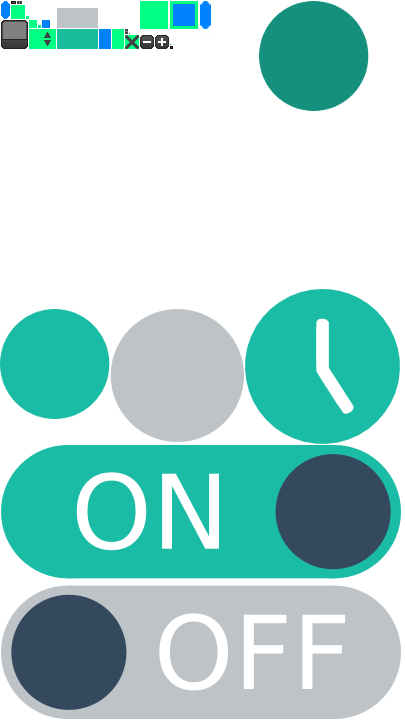
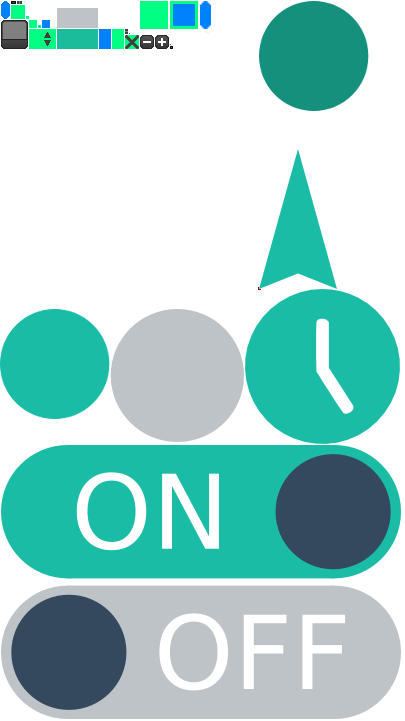
created an additional 2d overlay, indicating the direction of the next gate. not very performant jet but working (fucking math)...

Changed region(s): [[0.6222, 0.2136, 0.8296, 0.3967]]

diff --git a/core/src/de/fau/cs/mad/fly/features/game/GateIndicator.java b/core/src/de/fau/cs/mad/fly/features/game/GateIndicator.java
@@ -2,10 +2,15 @@ package de.fau.cs.mad.fly.features.game;
 
 import com.badlogic.gdx.Gdx;
 import com.badlogic.gdx.graphics.Camera;
+import com.badlogic.gdx.graphics.g2d.Batch;
+import com.badlogic.gdx.graphics.g2d.SpriteBatch;
+import com.badlogic.gdx.graphics.g2d.TextureRegion;
 import com.badlogic.gdx.graphics.g3d.Environment;
 import com.badlogic.gdx.graphics.g3d.ModelBatch;
 import com.badlogic.gdx.math.Vector3;
+import com.badlogic.gdx.scenes.scene2d.ui.Skin;
 
+import de.fau.cs.mad.fly.features.IFeatureDraw;
 import de.fau.cs.mad.fly.features.IFeatureInit;
 import de.fau.cs.mad.fly.features.IFeatureRender;
 import de.fau.cs.mad.fly.game.GameController;
@@ -20,10 +25,10 @@ import de.fau.cs.mad.fly.res.Level;
  * @author Lukas Hahmann
  * 
  */
-public class GateIndicator implements IFeatureInit, IFeatureRender {
+public class GateIndicator implements IFeatureInit, IFeatureDraw, IFeatureRender {
     
     private GameController gameController;
-    private ModelBatch batch;
+    private ModelBatch modelBatch;
     private Environment environment;
     private Vector3 targetPosition;
     private Vector3 vectorToTarget;
@@ -34,16 +39,62 @@ public class GateIndicator implements IFeatureInit, IFeatureRender {
     private Vector3 gatePositionRelativeToCamera;
     
     private GameObject arrowModel;
-    private Camera camera; 
+    private Camera camera;
+    
+    private TextureRegion arrow;
+    private Batch batch;
+    
+    private Level level;
+    
+    /**
+     * Radius of the circle, the arrows cover when indicating the next gate. It
+     * is limited by the reset-steering button, because it should not overlay
+     * this button.
+     */
+    private final int radius = 250;
+    /**
+     * Horizontal center of the screen. It defines the mid point of the circle
+     * the arrows cover.
+     */
+    private final float midX = Gdx.graphics.getWidth() / 2;
+    /**
+     * Vertical center of the screen. It defines the mid point of the circle the
+     * arrows cover.
+     */
+    private final float midY = Gdx.graphics.getHeight() / 2;
+    /**
+     * Horizontal starting position, where the arrow is placed when angle = 0°
+     */
+    private final float startPosX;
+    /**
+     * Vertical starting position, where the arrow is placed when angle = 0°
+     */
+    private final float startPosY = midY + radius;
+    
+    private final float arrowHeigth;
+    private final float arrowWidth;
+    
+    private final float originX;
+    private final float originY;
+    private float angle = 0;
+    
+    public GateIndicator(final Skin skin) {
+        arrow = skin.getRegion("arrow");
+        arrowWidth = arrow.getRegionWidth();
+        arrowHeigth = arrow.getRegionHeight();
+        originX = arrow.getRegionWidth() / 2;
+        originY = -radius;
+        startPosX = midX - arrow.getRegionWidth() / 2;
+        this.batch = new SpriteBatch();
+    }
     
     @Override
     public void init(final GameController gameController) {
         this.gameController = gameController;
         Assets.load(Assets.arrow);
-        long millis = System.currentTimeMillis();
         arrowModel = new GameObject(Assets.manager.get(Assets.arrow));
-        Gdx.app.log("GateIndicator", String.valueOf(System.currentTimeMillis()-millis));
-        batch = gameController.getBatch();
+        this.level = gameController.getLevel();
+        modelBatch = gameController.getBatch();
         environment = gameController.getLevel().getEnvironment();
         camera = gameController.getCamera();
         
@@ -60,7 +111,7 @@ public class GateIndicator implements IFeatureInit, IFeatureRender {
         int[] nextLevels = gameController.getLevel().currentGates();
         int len = nextLevels.length;
         Level.Gate gate;
-        for (int i = 0; i<len; i++) {
+        for (int i = 0; i < len; i++) {
             gate = gameController.getLevel().getGateById(nextLevels[i]);
             targetPosition = gate.goal.getPosition();
             cameraDirection.set(camera.direction);
@@ -84,7 +135,60 @@ public class GateIndicator implements IFeatureInit, IFeatureRender {
             float[] values = { up.x, up.y, up.z, 0f, cross.x, cross.y, cross.z, 0f, vectorToTarget.x, vectorToTarget.y, vectorToTarget.z, 0f, 0f, 0f, 0f, 1f };
             
             arrowModel.transform.set(values).trn(gatePositionRelativeToCamera);
-            batch.render(arrowModel, environment);
+            modelBatch.render(arrowModel, environment);
         }
+    }
+    
+    @Override
+    public void draw(float delta) {
+        int[] gates = level.currentGates();
+        Vector3 midPoint = new Vector3();
+        Vector3 tmp = new Vector3();
+        Vector3 projectedPoint;
+        Vector3 vectorToProjectedPoint;
+        up.set(camera.up);
+        cameraDirection.set(camera.direction);
+        // vector orthogonal to up and cameraDirection
+        cross.set(up).crs(cameraDirection).nor();
+        GameObject gate;
+        batch.begin();
+        for (int i = 0; i < gates.length; i++) {
+            gate = level.getGateById(gates[i]).goal;
+            if (!gate.isVisible(gameController.getCamera())) {
+                projectedPoint = projectPointToPlane(gate.getPosition(), cross, up);
+                tmp.set(cameraDirection).nor().scl(camera.near);
+                midPoint.set(camera.position).add(tmp);
+                vectorToProjectedPoint = projectedPoint.sub(camera.position);
+                angle = angleBetweenTwoVectors(up, vectorToProjectedPoint);
+                if (vectorToProjectedPoint.hasOppositeDirection(cross)) {
+                    angle = 360 - angle;
+                }
+                batch.draw(arrow, startPosX, startPosY, originX, originY, arrowWidth, arrowHeigth, 1f, 1f, angle);
+            }
+        }
+        batch.end();
+    }
+    
+    /**
+     * Calculates the result of the orthogonal projection of the point to the
+     * plane, which is defined by planeX and planeY
+     */
+    public static Vector3 projectPointToPlane(Vector3 point, Vector3 planeX, Vector3 planeY) {
+        Vector3 x = new Vector3();
+        Vector3 y = new Vector3();
+        x.set(planeX);
+        y.set(planeY);
+        Vector3 first = new Vector3();
+        Vector3 second = new Vector3();
+        
+        y.scl(first.set(point).dot(y) / y.len2());
+        x.scl(second.set(point).dot(x) / x.len2());
+        Vector3 result = new Vector3();
+        return result.set(y).add(x);
+    }
+    
+    public static float angleBetweenTwoVectors(Vector3 v1, Vector3 v2) {
+        Vector3 tmp = new Vector3();
+        return (float) (Math.acos(tmp.set(v1).dot(v2) / (v1.len() * v2.len())) * 180 / Math.PI);
     }
 }

diff --git a/core/test/src/de/fau/cs/mad/fly/tests/GateIndicatorTest.java b/core/test/src/de/fau/cs/mad/fly/tests/GateIndicatorTest.java
@@ -1,0 +1,84 @@
+package de.fau.cs.mad.fly.tests;
+
+import static org.junit.Assert.assertEquals;
+
+import org.junit.Test;
+
+import com.badlogic.gdx.math.Vector3;
+
+import de.fau.cs.mad.fly.features.game.GateIndicator;
+
+public class GateIndicatorTest {
+    
+    /**
+     * Tests the method
+     * {@link GateIndicator#pojectPointToPlane(Vector3, Vector3, Vector3)}. The
+     * test numbers are from https://de.wikipedia.org/wiki/Orthogonalprojektion
+     */
+    @Test
+    public void testProjectToPlane() {
+        Vector3 up = new Vector3(2, 1, 2);
+        Vector3 right = new Vector3(2, -2, -1);
+        Vector3 point = new Vector3(3, 9, 6);
+        
+        Vector3 result = GateIndicator.projectPointToPlane(point, right, up);
+        assertEquals(2f, result.x, 0.1f);
+        assertEquals(7f, result.y, 0.1f);
+        assertEquals(8f, result.z, 0.1f);
+        
+        
+        up = new Vector3(0, 1, 0);
+        right = new Vector3(1, 0, 0);
+        point = new Vector3(4, 6, 9);
+        
+        result = GateIndicator.projectPointToPlane(point, right, up);
+        assertEquals(4f, result.x, 0.1f);
+        assertEquals(6f, result.y, 0.1f);
+        assertEquals(0f, result.z, 0.1f);
+        
+        
+        up = new Vector3(0, 1, 0);
+        right = new Vector3(1, 0, 0);
+        point = new Vector3(-4, -6, 1);
+        
+        result = GateIndicator.projectPointToPlane(point, right, up);
+        assertEquals(-4f, result.x, 0.1f);
+        assertEquals(-6f, result.y, 0.1f);
+        assertEquals(0f, result.z, 0.1f);
+        
+        
+        up = new Vector3(0, 0, -1);
+        right = new Vector3(1, 0, 0);
+        point = new Vector3(-4, -6, 1);
+        
+        result = GateIndicator.projectPointToPlane(point, right, up);
+        assertEquals(-4f, result.x, 0.1f);
+        assertEquals(0f, result.y, 0.1f);
+        assertEquals(1f, result.z, 0.1f);
+    }
+    
+    @Test
+    public void testAngleBetweenTwoVectors() {
+        Vector3 v1 = new Vector3(1, 5, 0);
+        Vector3 v2 = new Vector3(3, 7, 0);
+        float result = GateIndicator.angleBetweenTwoVectors(v1, v2);
+        assertEquals(12, result, 1f);
+        
+        v1 = new Vector3(1, 0, 0);
+        v2 = new Vector3(0, 1, 0);
+        result = GateIndicator.angleBetweenTwoVectors(v1, v2);
+        assertEquals(90, result, 1f);
+        
+        v1 = new Vector3(1, 0, 0);
+        v2 = new Vector3(-1, 1, 0);
+        result = GateIndicator.angleBetweenTwoVectors(v1, v2);
+        assertEquals(135, result, 0.1f);
+        
+        
+        v1 = new Vector3(-1, 1, 0);
+        v2 = new Vector3(1, 0, 0);
+        result = GateIndicator.angleBetweenTwoVectors(v1, v2);
+        assertEquals(135, result, 0.1f);
+    }
+    
+}

diff --git a/core/src/de/fau/cs/mad/fly/game/GameControllerBuilder.java b/core/src/de/fau/cs/mad/fly/game/GameControllerBuilder.java
@@ -265,7 +265,7 @@ public class GameControllerBuilder {
      * @return Builder instance with GateIndicator
      */
     private GameControllerBuilder addGateIndicator() {
-        GateIndicator gateIndicator = new GateIndicator();
+        GateIndicator gateIndicator = new GateIndicator(game.getSkin());
         addFeatureToLists(gateIndicator);
         return this;
     }
